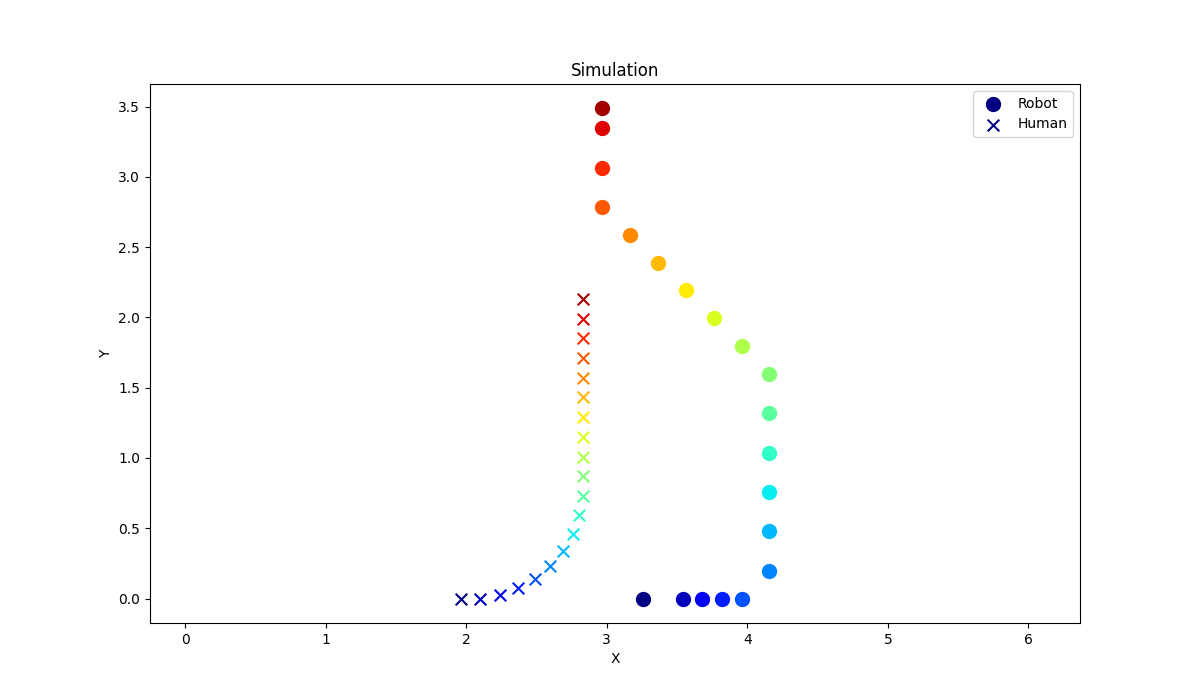
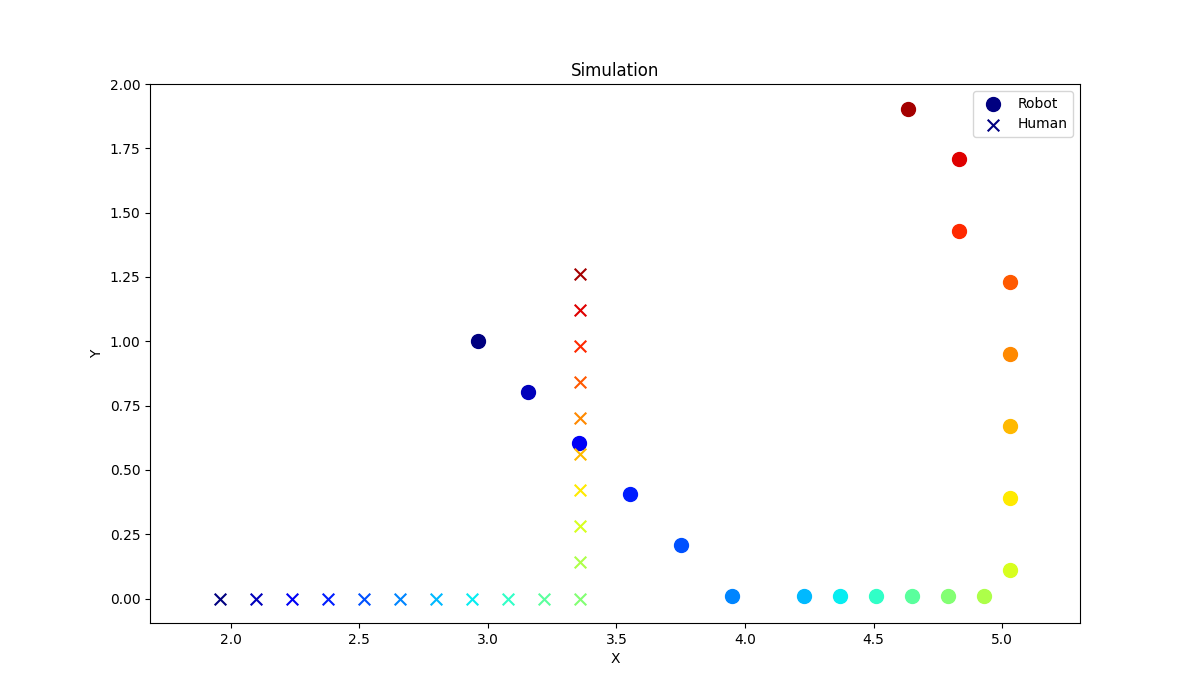
update

diff --git a/follow/scripts/simulation_prev_work.py b/follow/scripts/simulation_prev_work.py
@@ -55,14 +55,14 @@ class Tree(object):
 
     def run(self):
         self.plot_idx = 0
-        # robot_init_pose_list = [[1.3,0.,0.], [1.3, 0.5, 0], [1.3, -1., 0], [1.,1, 0.], [1.3, -0.5, 0.4], [1., -0.5, 0.5]]
-        robot_init_pose_list = [[1.3, 0., 0]]
+        robot_init_pose_list = [[1.3,0.,0.], [1.3, 0.5, 0], [1.3, -1., 0], [1.,1, 0.], [1.3, -0.5, 0.4], [1., -0.5, 0.5]]
+        # robot_init_pose_list = [[1.3, 0., 0]]
         if os.path.exists('/home/sahar/catkin_ws/src/Follow_ahead_reaction/follow/summary.txt'):
             os.remove('/home/sahar/catkin_ws/src/Follow_ahead_reaction/follow/summary.txt')
-            
-        for robot_init in robot_init_pose_list:
-            for traj in self.human_traj:
-                traj = traj[10:]
+
+        for traj in self.human_traj:  
+            traj = traj[10:]  
+            for robot_init in robot_init_pose_list:
                 sum_reward = 0.
                 dist_list = []
                 angle_list = []

diff --git a/follow/scripts/simulation.py b/follow/scripts/simulation.py
@@ -55,13 +55,14 @@ class Tree(object):
 
     def run(self):
         self.plot_idx = 0
-        # robot_init_pose_list = [[1.3,0.,0.], [1., 0.5, 0], [1., -0.5, 0], [1.,0.5, 0.5], [1., 0.5, -0.5], [1.,-0.5, 0.5], [1., -0.5, -0.5]]
-        robot_init_pose_list = [[1.3, 0., 0]]
+        robot_init_pose_list = [[1.3,0.,0.], [1., 0.5, 0], [1., -0.5, 0], [1.,0.5, 0.5], [1., 0.5, -0.5], [1.,-0.5, 0.5], [1., -0.5, -0.5]]
+        # robot_init_pose_list = [[1.3, 0., 0]]
         if os.path.exists('/home/sahar/catkin_ws/src/Follow_ahead_reaction/follow/summary.txt'):
             os.remove('/home/sahar/catkin_ws/src/Follow_ahead_reaction/follow/summary.txt')
             
-        for robot_init in robot_init_pose_list:
-            for traj in self.human_traj:
+            
+        for traj in self.human_traj:
+            for robot_init in robot_init_pose_list:
                 sum_reward = 0.
                 dist_list = []
                 angle_list = []

diff --git a/follow/scripts/test.py b/follow/scripts/test.py
@@ -10,7 +10,7 @@ sum_reward = np.array([])
 
 traj_length = 15
 
-with open('/home/sahar/catkin_ws/src/Follow_ahead_reaction/follow/12_3.txt', 'r') as file:
+with open('/home/sahar/catkin_ws/src/Follow_ahead_reaction/follow/curr_4.txt', 'r') as file:
     lines = file.readlines()
     for line in lines:
         if line == '\n':
